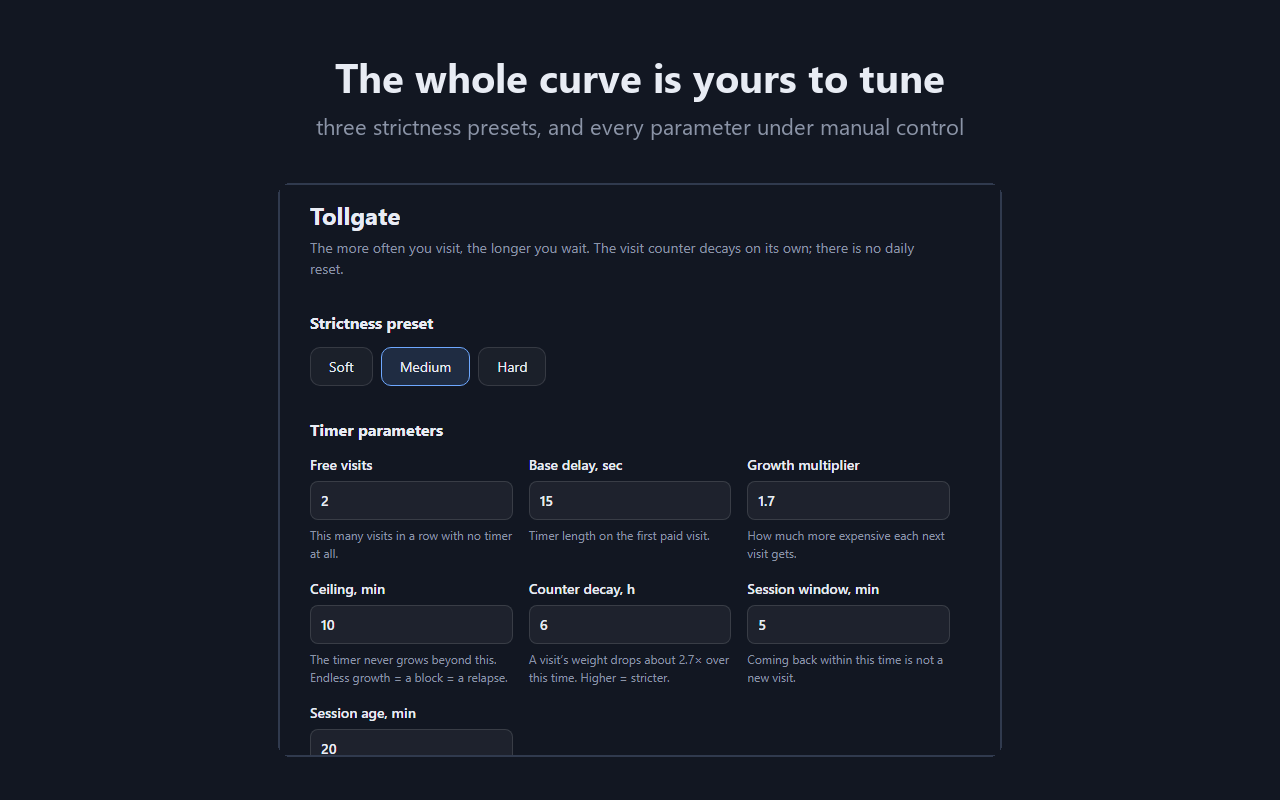
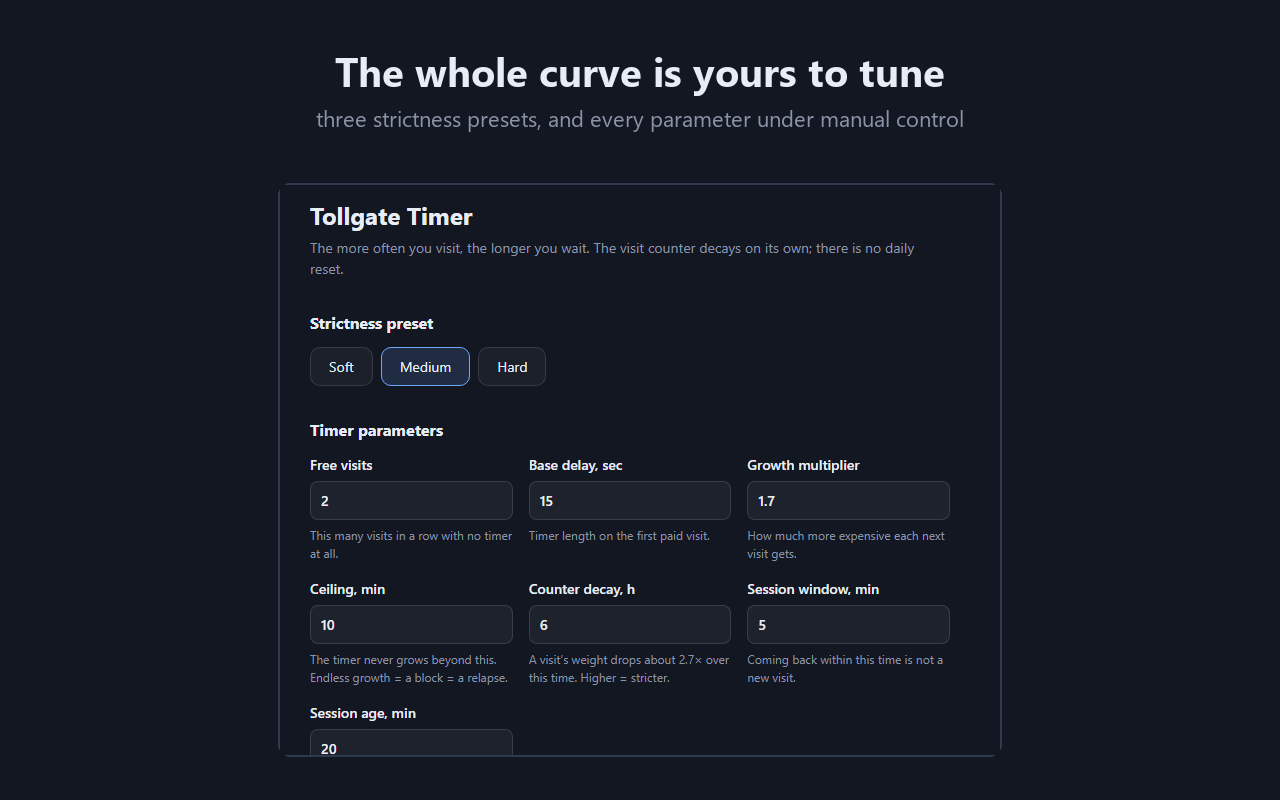
style: заголовок в UI — полное имя Tollgate Timer
Сокращение до «Tollgate» осталось со времён узкого попапа в 300 px; сейчас он
568 px и место есть, а расхождение имени в шапке и в сторе только путает.

- bump: 1.1.1
- upd: скриншоты листинга пересняты с новым заголовком

Changed region(s): [[0.25, 0.0625, 0.75, 0.1875], [0.3125, 0.25, 0.375, 0.2812]]

diff --git a/entrypoints/popup/index.html b/entrypoints/popup/index.html
@@ -7,7 +7,7 @@
   </head>
   <body>
     <header>
-      <h1>Tollgate</h1>
+      <h1>Tollgate Timer</h1>
       <button id="open-options" class="link" data-i18n="popupSettings"></button>
     </header>
 

diff --git a/entrypoints/options/index.html b/entrypoints/options/index.html
@@ -8,7 +8,7 @@
   </head>
   <body>
     <main class="wrap">
-      <h1>Tollgate</h1>
+      <h1>Tollgate Timer</h1>
       <p class="sub" data-i18n="optSub"></p>
 
       <section>
